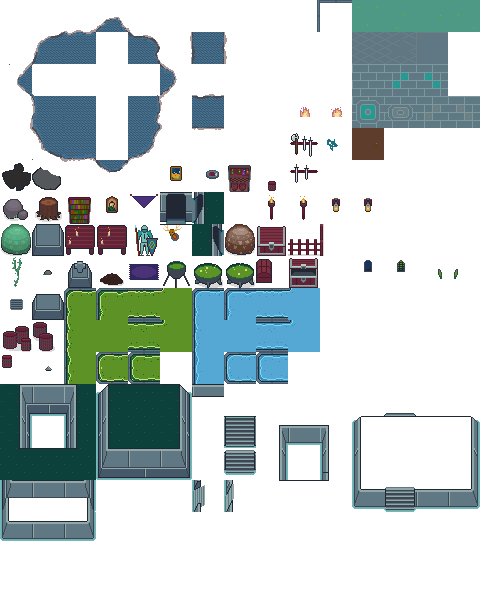
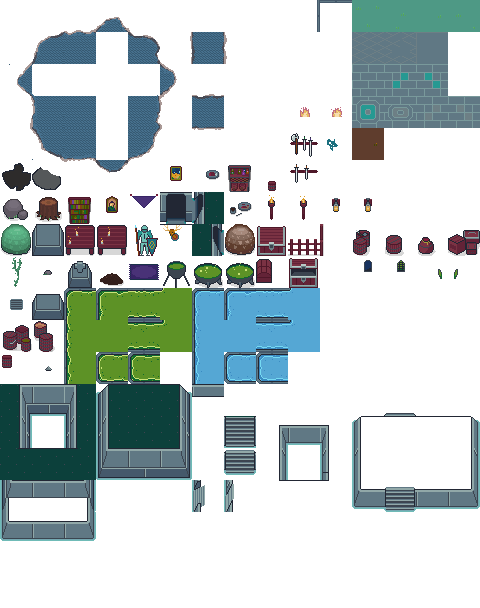
More obstacle/decoration sprites

diff --git a/src/textures.rs b/src/textures.rs
@@ -594,6 +594,10 @@ pub enum TerrainId {
     SmallObstacle,
     BarrelsObstacle,
     BarrelsObstacle2,
+    BarrelsObstacle3,
+    BarrelsObstacle4,
+    SackObstacle,
+    BoxesObstacle,
     SmallStone,
     TombStone,
     DirtMound,
@@ -626,6 +630,7 @@ pub enum TerrainId {
     Torch,
     Lantern,
     FoodPlate,
+    FoodPlate2,
 
     NewWater(WaterOrientation, LiquidType),
 
@@ -763,6 +768,14 @@ impl TerrainId {
                     TerrainId::BarrelsObstacle => (-1..=1, 0..=1),
                     // two left columns
                     TerrainId::BarrelsObstacle2 => (-1..=0, -1..=1),
+                    // part of two lower rows
+                    TerrainId::BarrelsObstacle3 => (-1..=0, 0..=1),
+                    // part of two lower rows
+                    TerrainId::BarrelsObstacle4 => (-1..=0, 0..=1),
+                    // part of two lower rows
+                    TerrainId::SackObstacle => (-1..=0, 0..=1),
+                    // two lower rows
+                    TerrainId::BoxesObstacle => (-1..=1, 0..=1),
                     // two lower rows
                     TerrainId::TombStone => (-1..=1, 0..=1),
                     // two lower rows
@@ -957,6 +970,10 @@ pub fn terrain_atlas_area(terrain_id: TerrainId, screen_pos: (f32, f32)) -> (f32
         TerrainId::SmallObstacle => (1, 9),
         TerrainId::BarrelsObstacle => (0, 10),
         TerrainId::BarrelsObstacle2 => (1, 10),
+        TerrainId::BarrelsObstacle3 => (11, 7),
+        TerrainId::BarrelsObstacle4 => (12, 7),
+        TerrainId::SackObstacle => (13, 7),
+        TerrainId::BoxesObstacle => (14, 7),
         TerrainId::Boulder2 => (0, 6),
         TerrainId::TreeStump => (1, 6),
         TerrainId::Table => (2, 7),
@@ -987,6 +1004,7 @@ pub fn terrain_atlas_area(terrain_id: TerrainId, screen_pos: (f32, f32)) -> (f32
         TerrainId::SuitOfArmor => (4, 7),
         TerrainId::AnimalHead => (5, 7),
         TerrainId::FoodPlate => (6, 5),
+        TerrainId::FoodPlate2 => (7, 6),
         TerrainId::SpikesSingleCell => (1, 11),
         TerrainId::FireSurfaceSingleCell => (9, 3),
 

diff --git a/src/bin/editor.rs b/src/bin/editor.rs
@@ -668,6 +668,10 @@ impl Sidebar {
             TerrainId::SmallObstacle,
             TerrainId::BarrelsObstacle,
             TerrainId::BarrelsObstacle2,
+            TerrainId::BarrelsObstacle3,
+            TerrainId::BarrelsObstacle4,
+            TerrainId::SackObstacle,
+            TerrainId::BoxesObstacle,
         ];
         let mut terrain_actions: Vec<EditorAction> = terrain_objects
             .iter()
@@ -704,6 +708,7 @@ impl Sidebar {
             TerrainId::SuitOfArmor,
             TerrainId::AnimalHead,
             TerrainId::FoodPlate,
+            TerrainId::FoodPlate2,
             TerrainId::Staircase,
             TerrainId::StaircaseLeft,
             TerrainId::StaircaseTall,
